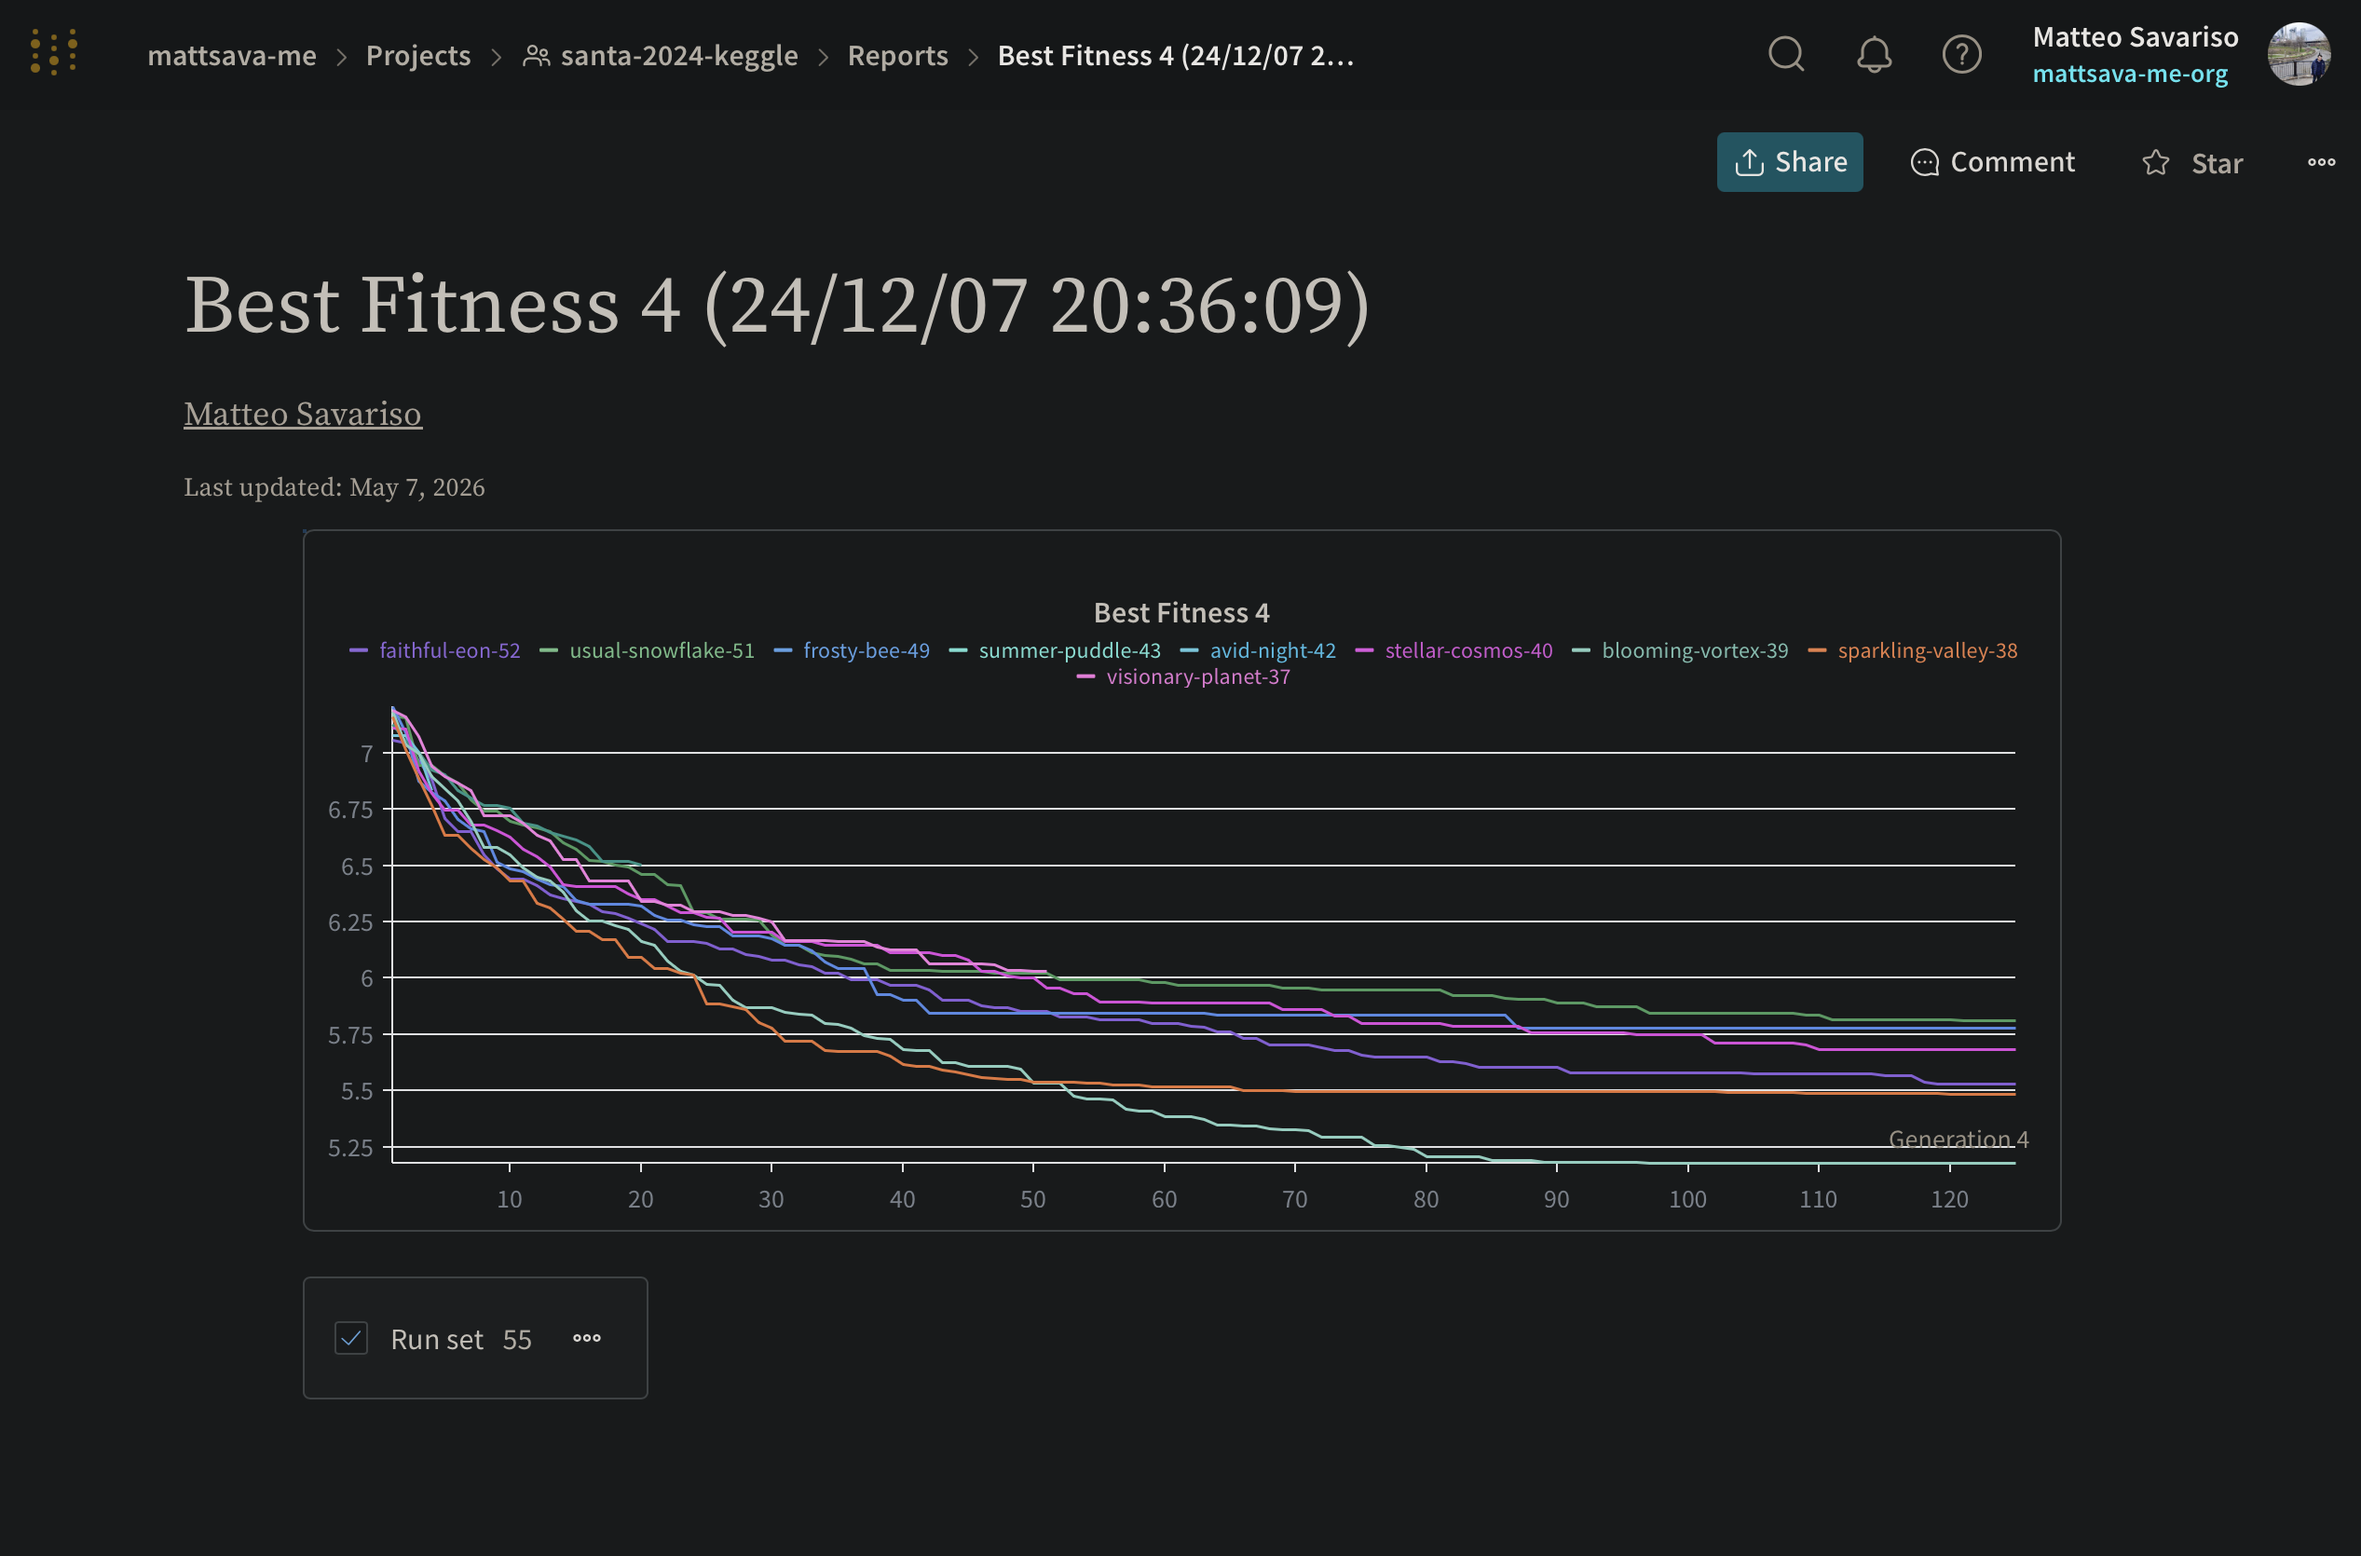
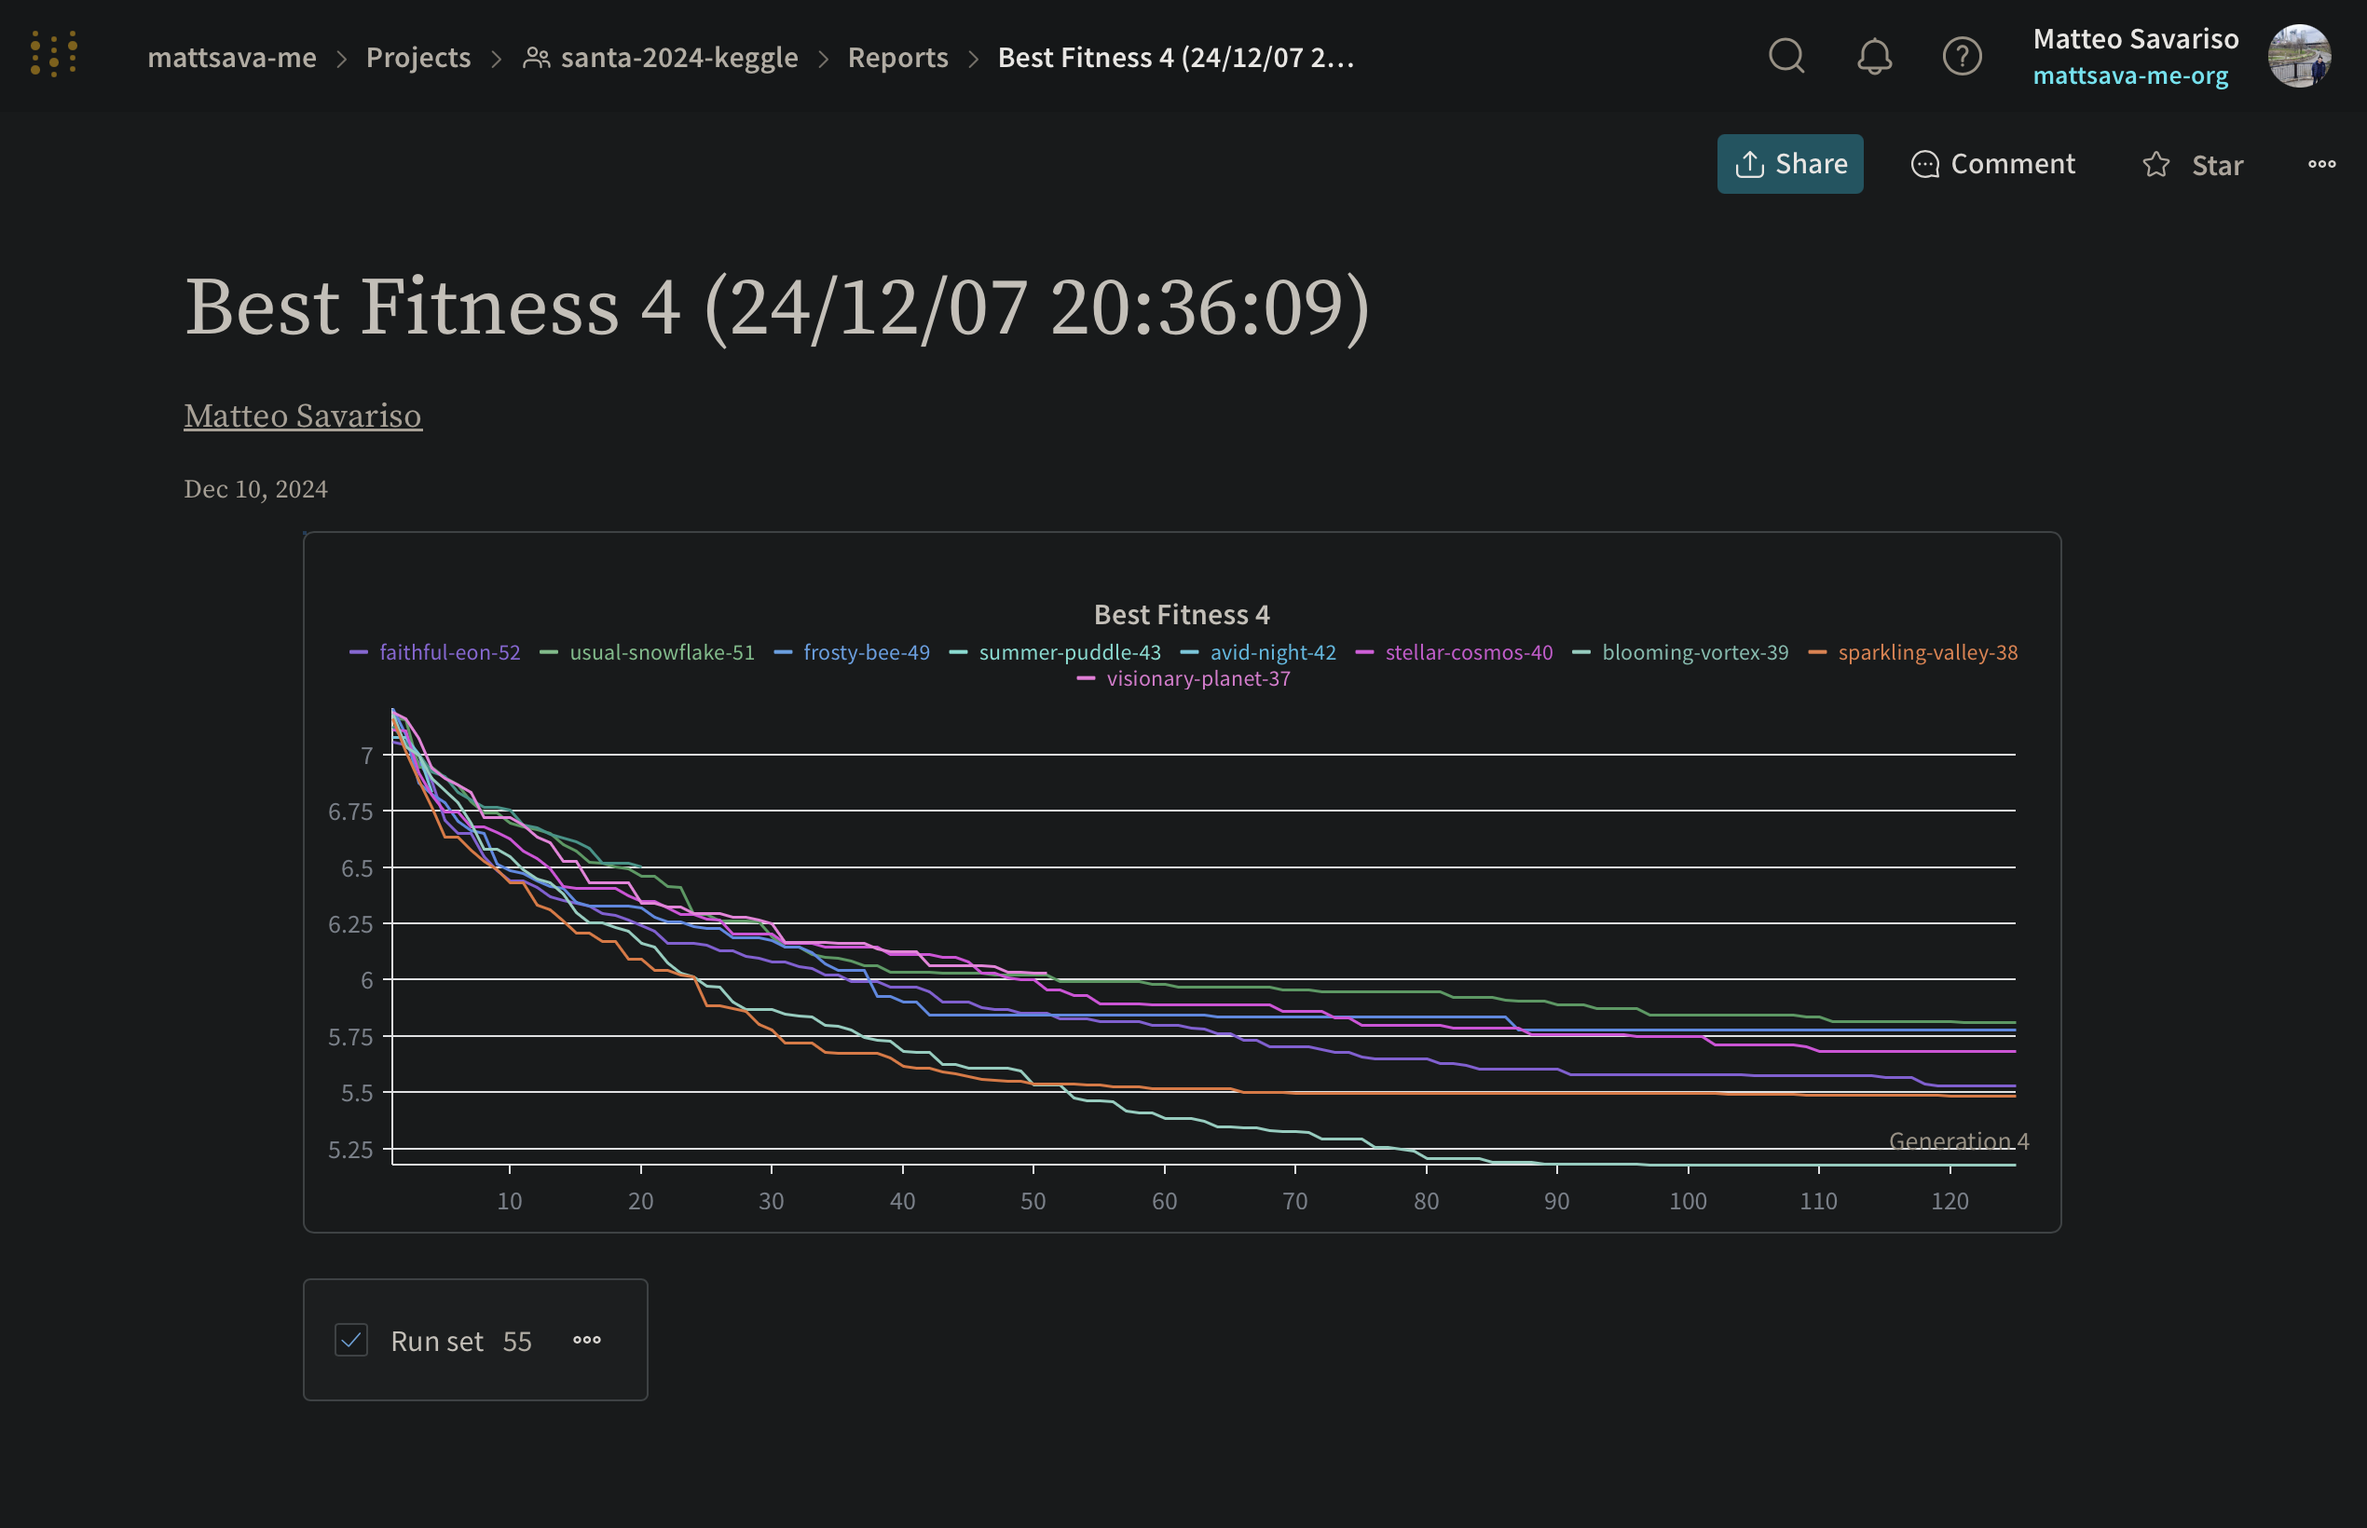
docs: add explicit W&B report link

diff --git a/README.md b/README.md
@@ -42,6 +42,8 @@ Fitness convergence across 55 W&B runs (lower = better, y-axis is negative log-l
 
 [![W&B fitness convergence](assets/wandb_fitness_convergence.png)](https://wandb.ai/mattsava-me/santa-2024-keggle/reports/Best-Fitness-4-24-12-07-20-36-09---VmlldzoxMDUwNDUwMw)
 
+Full report: [W&B — Best Fitness 4](https://wandb.ai/mattsava-me/santa-2024-keggle/reports/Best-Fitness-4-24-12-07-20-36-09---VmlldzoxMDUwNDUwMw)
+
 Key hyperparameters from the best run:
 
 | Parameter | Value |
